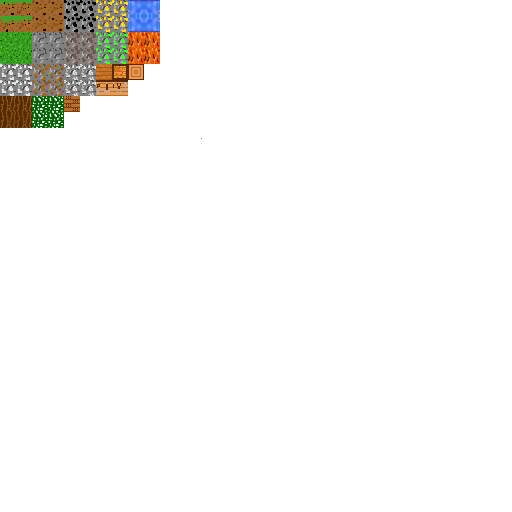
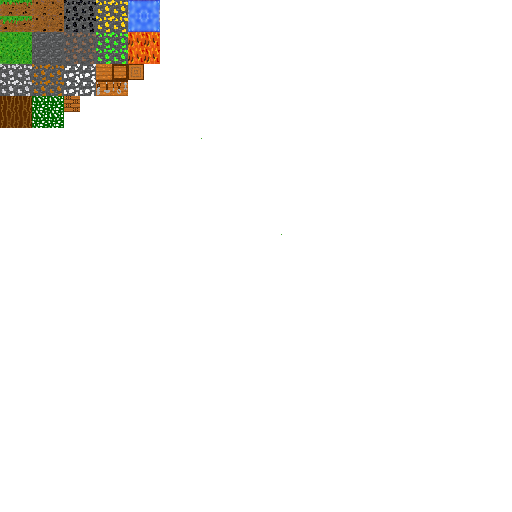
Nouvelles textures
Et randomisation de l'affichage du sol.
Pour voir un peut tout les blocks.

Changed region(s): [[0.0, 0.0, 0.2812, 0.1875]]

diff --git a/src/modeles/TextureManager.java b/src/modeles/TextureManager.java
@@ -875,49 +875,49 @@ public class TextureManager {
 	private float[] genWorkbenchTexture(){
 		return new float[]{
 				//south
-				0.125f, 0.125f,
-				0.125f, 0.09375f,
-				0.09375f, 0.125f,
-				0.09375f, 0.125f,
-				0.125f, 0.09375f,
-				0.09375f, 0.09375f,
+				0.21875f, 0.1875f,
+				0.21875f, 0.15625f,
+				0.1875f, 0.1875f,
+				0.1875f, 0.1875f,
+				0.21875f, 0.15625f,
+				0.1875f, 0.15625f,
 
-				0.125f, 0.09375f,
-				0.09375f, 0.09375f,
-				0.09375f, 0.125f,
-				0.125f, 0.09375f,
-				0.09375f, 0.125f,
-				0.125f, 0.125f,
+				0.21875f, 0.15625f,
+				0.1875f, 0.15625f,
+				0.1875f, 0.1875f,
+				0.21875f, 0.15625f,
+				0.1875f, 0.1875f,
+				0.21875f, 0.1875f,
 
 				//top
-				0.15625f, 0.09375f,
-				0.15625f, 0.0625f,
-				0.125f, 0.09375f,
-				0.125f, 0.09375f,
-				0.15625f, 0.0625f,
-				0.125f, 0.0625f,
+				0.25f, 0.15625f,
+				0.25f, 0.125f,
+				0.21875f, 0.15625f,
+				0.21875f, 0.15625f,
+				0.25f, 0.125f,
+				0.21875f, 0.125f,
 
 				//bottom
-				0.125f, 0.0625f,
-				0.125f, 0.09375f,
-				0.15625f, 0.0625f,
-				0.15625f, 0.0625f,
-				0.125f, 0.09375f,
-				0.15625f, 0.09375f,
+				0.21875f, 0.125f,
+				0.21875f, 0.15625f,
+				0.25f, 0.125f,
+				0.25f, 0.125f,
+				0.21875f, 0.15625f,
+				0.25f, 0.15625f,
 
-				0.15625f, 0.125f,
-				0.15625f, 0.09375f,
-				0.125f, 0.125f,
-				0.125f, 0.125f,
-				0.15625f, 0.09375f,
-				0.125f, 0.09375f,
+				0.25f, 0.1875f,
+				0.25f, 0.15625f,
+				0.21875f, 0.1875f,
+				0.21875f, 0.1875f,
+				0.25f, 0.15625f,
+				0.21875f, 0.15625f,
 
-				0.125f, 0.125f,
-				0.15625f, 0.09375f,
-				0.125f, 0.09375f,
-				0.15625f, 0.125f,
-				0.15625f, 0.09375f,
-				0.125f, 0.125f
+				0.21875f, 0.1875f,
+				0.25f, 0.15625f,
+				0.21875f, 0.15625f,
+				0.25f, 0.1875f,
+				0.25f, 0.15625f,
+				0.21875f, 0.1875f,
 		};
 	}
 	

diff --git a/src/modeles/TerrainGenerator.java b/src/modeles/TerrainGenerator.java
@@ -1,5 +1,7 @@
 package modeles;
 
+import java.util.Random;
+
 import modeles.entities.Cube3dVbo;
 import controleur.Controleur;
 
@@ -45,13 +47,15 @@ public class TerrainGenerator {
 	 */
 	public void genFond(int x, int y, int z){
 		Chunk temp = clone.getChunkManager().getChunk(x,y,z);
+		Random r = new Random();
 		int originX = x*16;
 		int originY = y*16;
 		int originZ = z*16;
 
 		for(int i = originX; i>originX-16; --i){
 			for(int j = originZ; j>originZ-16; --j){
-				temp.addCube3dVbo(new Cube3dVbo(i, -originY, j, 1, 15));
+				int valeur = 3 + r.nextInt(11 - 3);
+				temp.addCube3dVbo(new Cube3dVbo(i, -originY, j, 1, valeur));
 			}
 		}
 	}
@@ -67,7 +71,7 @@ public class TerrainGenerator {
 
 		for(int i = originY+1; i>originY-16; --i){
 			for(int j = originZ; j>originZ-16; --j){
-				temp.addCube3dVbo(new Cube3dVbo(originX, -i, j, 1, 15));
+				temp.addCube3dVbo(new Cube3dVbo(originX, -i, j, 1, 1));
 			}
 		}
 	}
